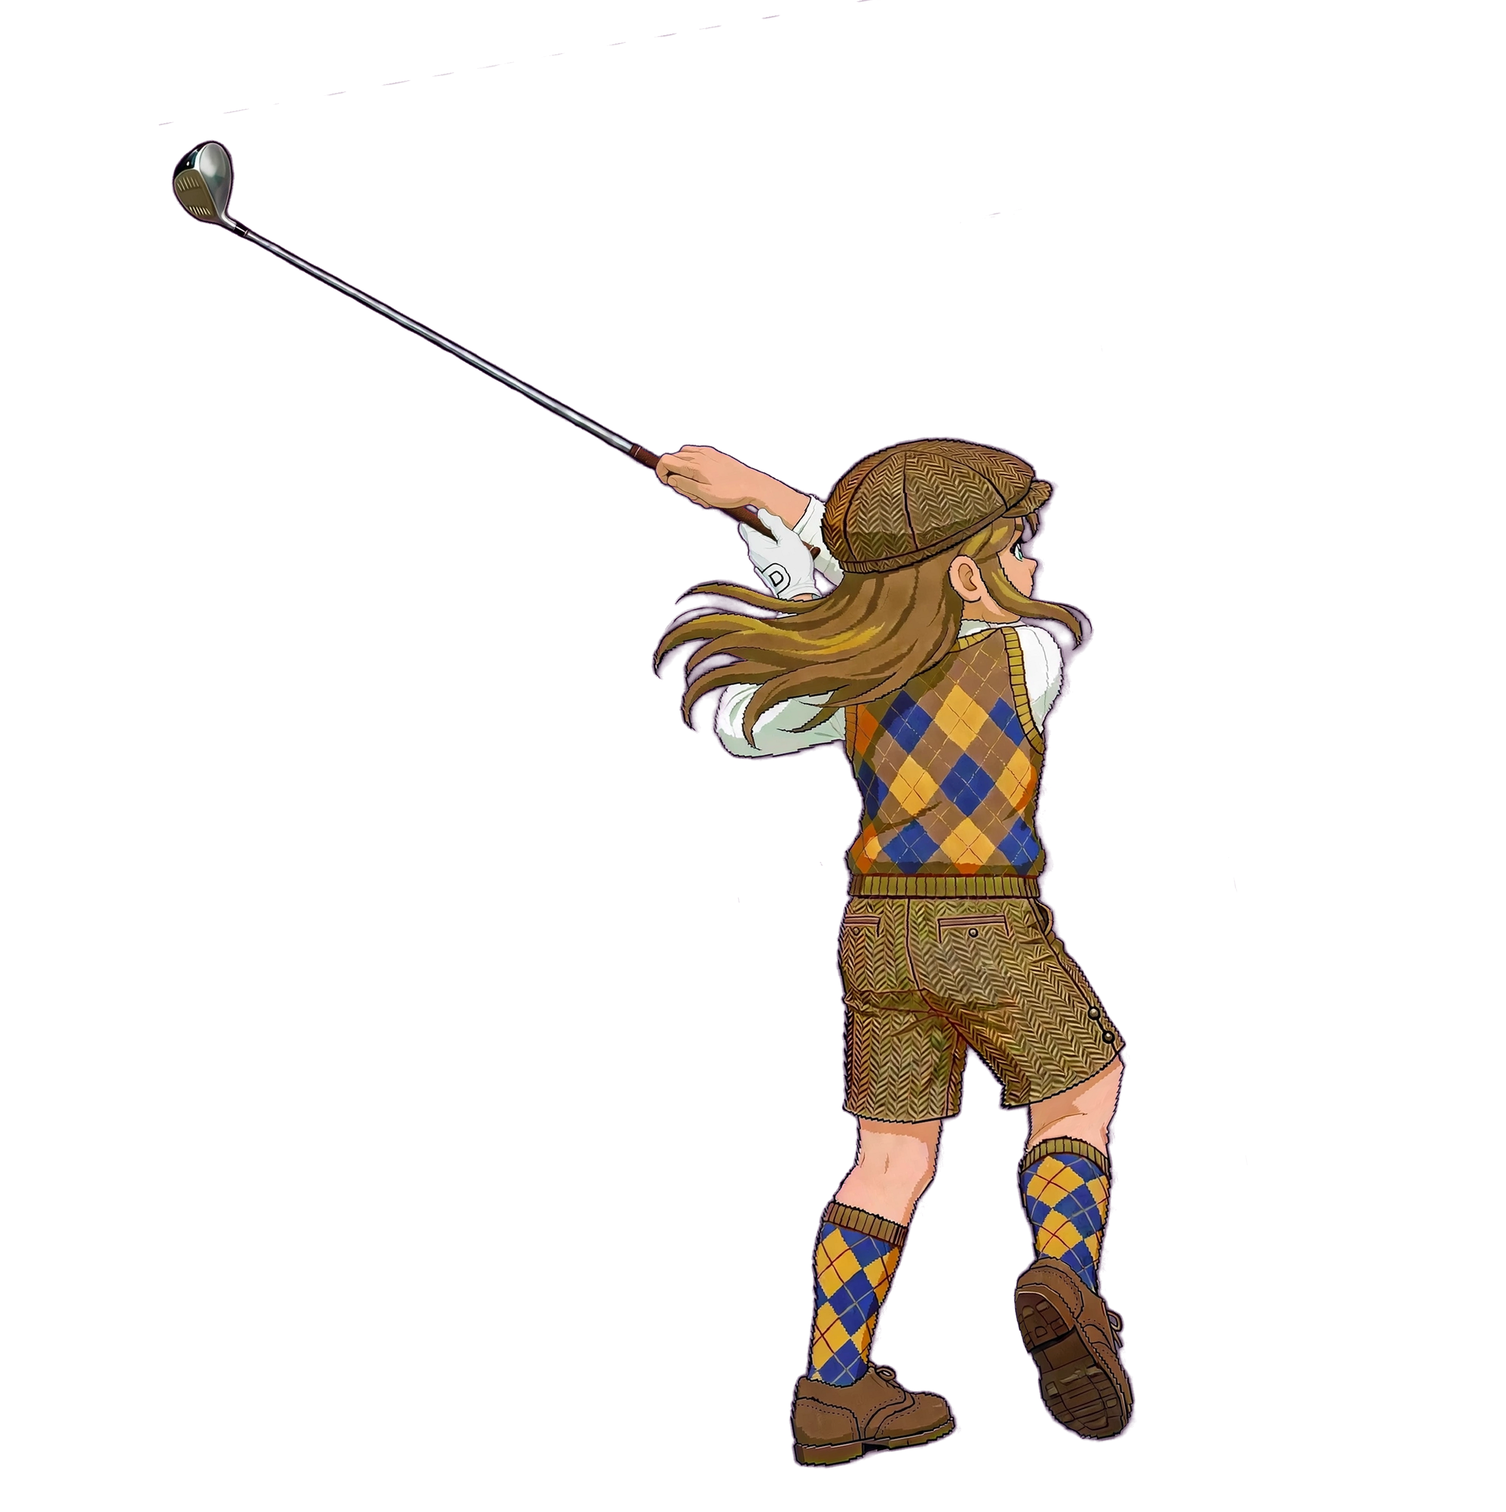
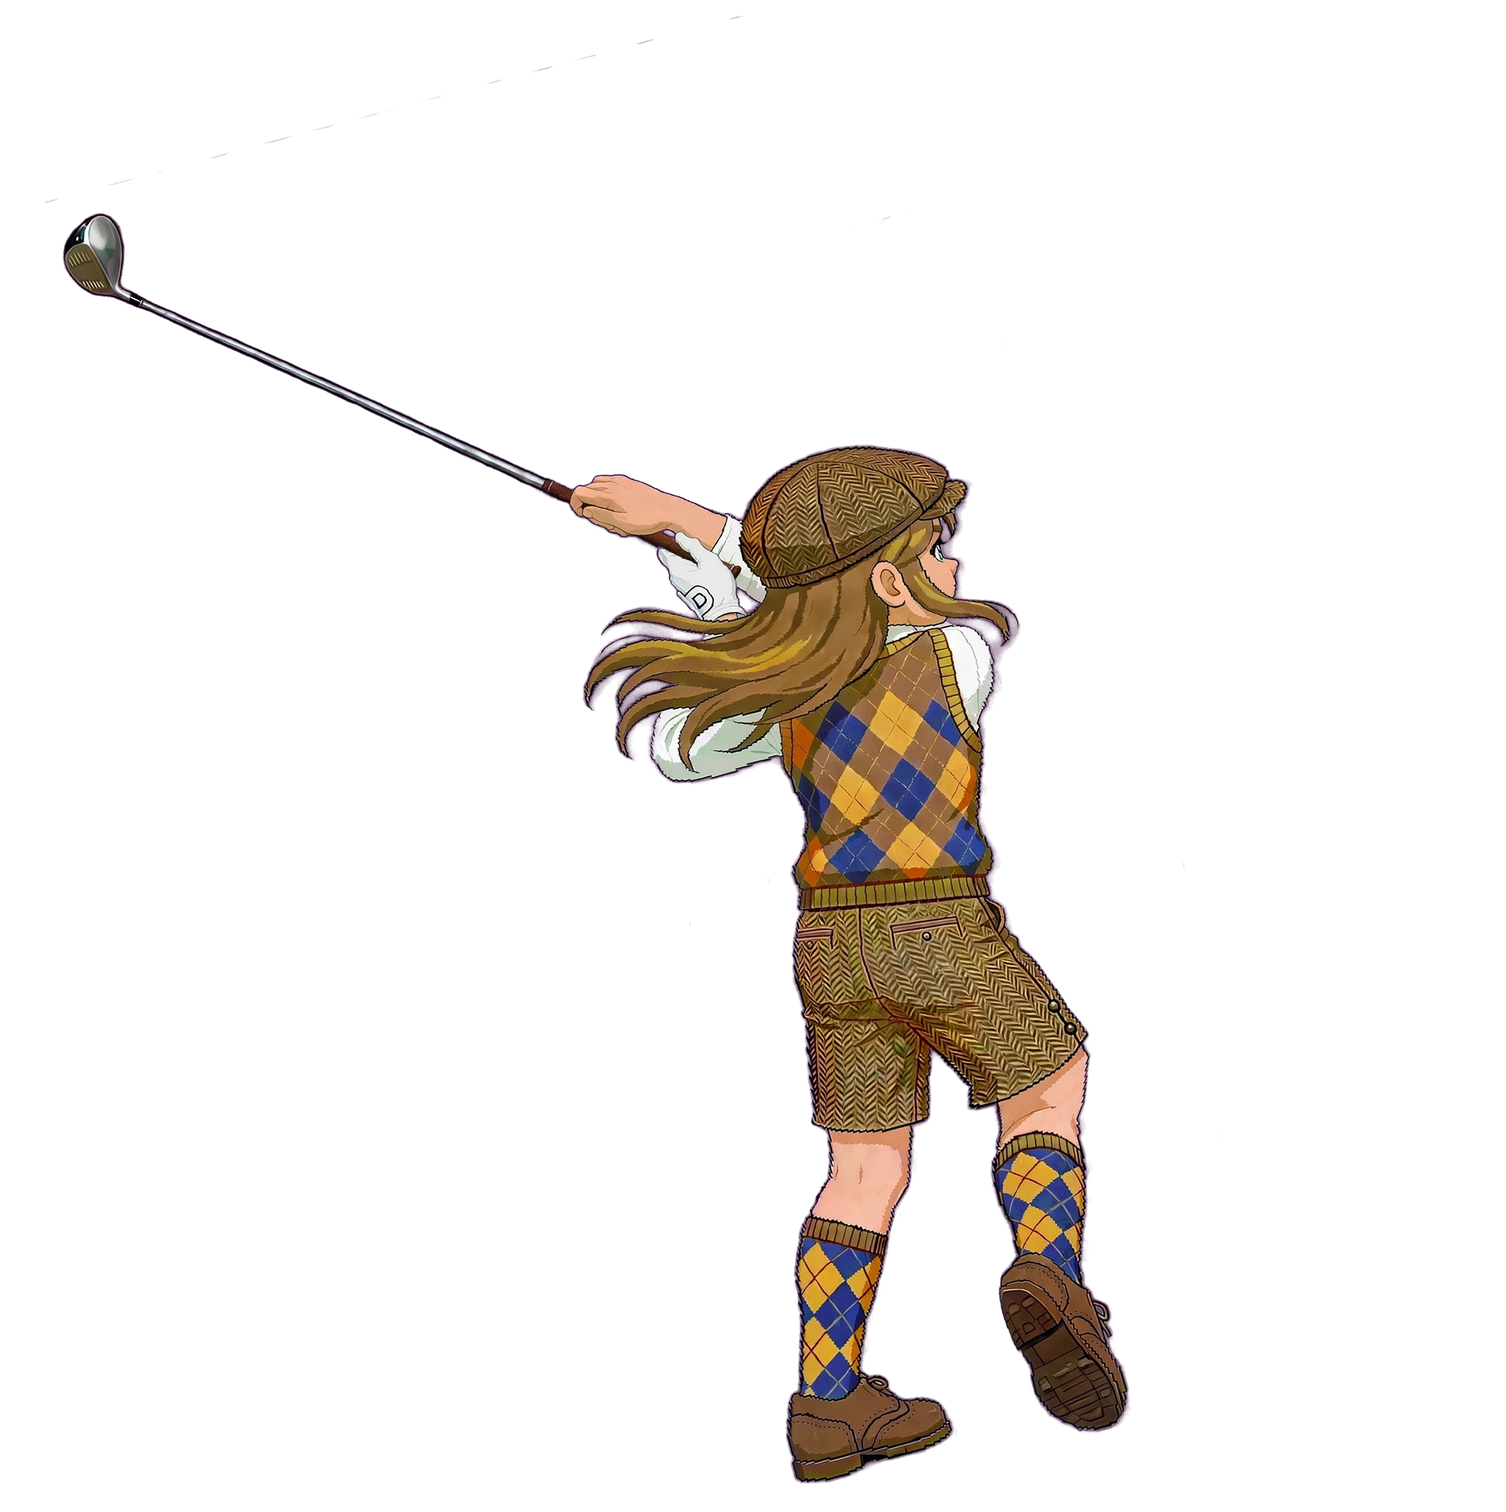
v0.17.0 フォロー15度＋コース10〜15を追加

diff --git a/index.html b/index.html
@@ -186,7 +186,7 @@
 /* ============ 版チェック（ブラウザキャッシュで古いページが残る問題への対策） ============
    サーバー上の version.txt とこのページの版が違えば、新しいURLで開き直して最新版を取りに行く。
    公開のたびに PAGE_VER と version.txt を一緒に上げること。 */
-const PAGE_VER = "0.16.0";
+const PAGE_VER = "0.17.0";
 (function(){
   try {
     fetch("version.txt", { cache: "no-store" }).then(r => r.text()).then(v => {
@@ -226,12 +226,12 @@ const COURSES = [
   { name:"砂浜",         par:4, len:300, ready:true },
   { name:"山の上",       par:5, len:450, ready:true },
   { name:"都会（深夜）", par:4, len:340, ready:true, cupX:-150, cupZ:190 },
-  { name:"機械遺跡",     par:4, len:330 },
-  { name:"ジャングル",   par:4, len:310 },
-  { name:"白嶺の雪山",   par:4, len:370 },
-  { name:"灼砂の砂漠",   par:5, len:460 },
-  { name:"大渓谷",       par:3, len:180 },
-  { name:"霞の竹林",     par:4, len:290 },
+  { name:"機械遺跡",     par:4, len:330, ready:true },
+  { name:"ジャングル",   par:4, len:310, ready:true },
+  { name:"白嶺の雪山",   par:4, len:370, ready:true },
+  { name:"灼砂の砂漠",   par:5, len:460, ready:true },
+  { name:"大渓谷",       par:3, len:180, ready:true },
+  { name:"霞の竹林",     par:4, len:290, ready:true },
   { name:"紅蓮の火山",   par:4, len:390 },
   { name:"湿原",         par:4, len:280 },
   { name:"黄昏の地",     par:5, len:520 }
@@ -443,6 +443,75 @@ function surfNight(x, z){
   if (Math.hypot(x - CUP.x, z - CUP.z) <= GREEN_R) return "green";
   return nightRoad(x, z) ? "asphalt" : "rough";
 }
+/* ---- コース10「機械遺跡」：石床はよく転がる。柱と歯車の障害物 ---- */
+function heightRuins(x, z){
+  const roll = 0.7 * Math.sin(x * 0.04 + 0.3) * Math.sin(z * 0.03 + 1.1) + 0.4 * Math.sin(x * 0.09) * Math.sin(z * 0.06);
+  const f = Math.min(smooth01(10, 24, Math.hypot(x, z)), smooth01(14, 28, Math.hypot(x - CUP.x, z - CUP.z)));
+  return roll * f;
+}
+function surfRuins(x, z){
+  if (Math.hypot(x - CUP.x, z - CUP.z) <= GREEN_R) return "green";
+  if (Math.abs(x) <= 20 && z <= 35 && z >= -(HOLE_LEN + 15)) return "stone";
+  return "rough";
+}
+/* ---- コース11「ジャングル」：木の密度最大、フェアウェイは幅28mと最狭 ---- */
+function heightJungle(x, z){
+  const roll = 1.2 * Math.sin(x * 0.03 + 2.0) * Math.sin(z * 0.022 + 0.6) + 0.6 * Math.sin(x * 0.08) * Math.sin(z * 0.05 + 1.4);
+  const f = Math.min(smooth01(10, 24, Math.hypot(x, z)), smooth01(14, 28, Math.hypot(x - CUP.x, z - CUP.z)));
+  return roll * f;
+}
+function surfJungle(x, z){
+  if (Math.hypot(x - CUP.x, z - CUP.z) <= GREEN_R) return "green";
+  if (Math.abs(x) <= 14 && z <= 35 && z >= -(HOLE_LEN + 15)) return "fairway";
+  return "rough";
+}
+/* ---- コース12「白嶺の雪山」：全面雪。転がらないのでキャリーで止める ---- */
+function heightSnow(x, z){
+  const roll = 2.2 * Math.sin(x * 0.025 + 0.9) * Math.sin(z * 0.018 + 0.2) + 1.0 * Math.sin(x * 0.06) * Math.sin(z * 0.045 + 1.8);
+  const f = Math.min(smooth01(10, 26, Math.hypot(x, z)), smooth01(14, 30, Math.hypot(x - CUP.x, z - CUP.z)));
+  return roll * f;
+}
+function surfSnow(x, z){
+  if (Math.hypot(x - CUP.x, z - CUP.z) <= GREEN_R) return "green";
+  return "snow";
+}
+/* ---- コース13「灼砂の砂漠」：全面砂＋砂丘。オアシスは水ハザード ---- */
+function heightDesert(x, z){
+  const dune = 2.6 * Math.sin(x * 0.021 + 0.4) * Math.sin(z * 0.017 + 1.0) + 1.2 * Math.sin(x * 0.05 + 2.2) * Math.sin(z * 0.04);
+  let f = Math.min(smooth01(10, 26, Math.hypot(x, z)), smooth01(14, 30, Math.hypot(x - CUP.x, z - CUP.z)));
+  f = Math.min(f, smooth01(16, 34, Math.hypot(x - 52, z + 215)));   // オアシス付近は平らに
+  return dune * f;
+}
+function surfDesert(x, z){
+  if (inLake(x, z)) return "water";
+  if (Math.hypot(x - CUP.x, z - CUP.z) <= GREEN_R) return "green";
+  return "sand";
+}
+/* ---- コース14「大渓谷」：狭い谷底、両側は崖。中盤に川（キャリー必須） ---- */
+function heightCanyon(x, z){
+  const cliff = 26 * smooth01(17, 32, Math.abs(x));
+  let roll = 0.7 * Math.sin(z * 0.03) * (1 - smooth01(14, 24, Math.abs(x)));
+  roll *= smooth01(10, 18, Math.abs(z + 100));   // 川の帯は平らに
+  const f = Math.min(smooth01(10, 24, Math.hypot(x, z)), smooth01(14, 28, Math.hypot(x - CUP.x, z - CUP.z)));
+  return cliff + roll * f;
+}
+function surfCanyon(x, z){
+  if (inLake(x, z)) return "water";
+  if (Math.hypot(x - CUP.x, z - CUP.z) <= GREEN_R) return "green";
+  if (Math.abs(x) <= 13 && z <= 35 && z >= -(HOLE_LEN + 15)) return "fairway";
+  return "rough";
+}
+/* ---- コース15「霞の竹林」：竹の密生＋霧で視界が利かない ---- */
+function heightBamboo(x, z){
+  const roll = 1.0 * Math.sin(x * 0.03 + 1.2) * Math.sin(z * 0.024 + 0.5) + 0.5 * Math.sin(x * 0.07) * Math.sin(z * 0.055 + 2.4);
+  const f = Math.min(smooth01(10, 24, Math.hypot(x, z)), smooth01(14, 28, Math.hypot(x - CUP.x, z - CUP.z)));
+  return roll * f;
+}
+function surfBamboo(x, z){
+  if (Math.hypot(x - CUP.x, z - CUP.z) <= GREEN_R) return "green";
+  if (Math.abs(x) <= 16 && z <= 35 && z >= -(HOLE_LEN + 15)) return "fairway";
+  return "rough";
+}
 
 /* ============ コース構築 ============ */
 function buildGround(def){
@@ -463,7 +532,7 @@ function buildGround(def){
   geo.computeVertexNormals();
   const mesh = new THREE.Mesh(geo, new THREE.MeshLambertMaterial({ vertexColors: true, color: 0x9fd08a }));
   courseGroup.add(mesh);
-  new THREE.TextureLoader().load(def.tex + "?v=160", (tex) => {
+  new THREE.TextureLoader().load(def.tex + "?v=170", (tex) => {
     tex.wrapS = tex.wrapT = THREE.RepeatWrapping;
     tex.repeat.set(def.repX, def.repY);
     tex.magFilter = THREE.NearestFilter;
@@ -485,7 +554,7 @@ function buildGreenCup(){
   const flag = new THREE.Mesh(new THREE.PlaneGeometry(0.68, 0.334),
     new THREE.MeshBasicMaterial({ color:0xe53935, side:THREE.DoubleSide, transparent:true }));
   flag.position.set(CUP.x + 0.34, gy + 1.23, CUP.z); courseGroup.add(flag);
-  new THREE.TextureLoader().load("flag.png?v=160", (tex) => {
+  new THREE.TextureLoader().load("flag.png?v=170", (tex) => {
     flag.material.map = tex; flag.material.color.set(0xffffff);
     flag.material.needsUpdate = true;
   }, undefined, () => { /* 読み込み失敗：赤旗を維持 */ });
@@ -729,6 +798,113 @@ function decorateNight(){
   car("x", -196, -60, -1, 10, "taxi");
   car("x", -184, -140, 1, 7.5, "truck");
 }
+/* ---- 装飾：コース10「機械遺跡」 ---- */
+function decorateRuins(){
+  const stoneM = new THREE.MeshLambertMaterial({ color:0x9a958c });
+  const darkM = new THREE.MeshLambertMaterial({ color:0x5d594f });
+  function pillar(x, z, hgt, broken){
+    const p = new THREE.Mesh(new THREE.CylinderGeometry(1.1, 1.3, hgt, 8), stoneM);
+    p.position.set(x, groundH(x, z) + hgt / 2, z);
+    courseGroup.add(p); regOccluder(p);
+    if (!broken){
+      const cap = new THREE.Mesh(new THREE.BoxGeometry(3.4, 0.7, 3.4), darkM);
+      cap.position.set(x, groundH(x, z) + hgt + 0.35, z);
+      courseGroup.add(cap); regOccluder(cap);
+    }
+    colliders.push({ x, z, r:1.5, gr:1.4, h:hgt });
+  }
+  function gear(x, z, r){
+    const g = new THREE.Mesh(new THREE.CylinderGeometry(r, r, 0.9, 12), darkM);
+    g.rotation.x = Math.PI / 2; g.rotation.z = 0.4;
+    g.position.set(x, groundH(x, z) + r * 0.75, z);
+    courseGroup.add(g); regOccluder(g);
+    colliders.push({ x, z, r:r * 0.95, gr:r * 0.95, h:r * 1.5 });
+  }
+  const R = rng(1010);
+  for (let z = -30; z >= -(HOLE_LEN - 30); z -= 42 + R() * 16){
+    pillar(-(24 + R() * 6), z, 6 + R() * 5, R() < 0.35);
+    pillar(24 + R() * 6, z - 14, 6 + R() * 5, R() < 0.35);
+    if (R() < 0.55) gear((R() < 0.5 ? -1 : 1) * (27 + R() * 10), z - 24, 2.2 + R() * 1.4);
+    if (R() < 0.4) rock((R() < 0.5 ? -1 : 1) * (12 + R() * 22), z - 8, 0.8 + R() * 0.7);   // 瓦礫
+  }
+  pillar(-8, CUP.z + 16, 9, false); pillar(8, CUP.z + 16, 9, false);       // グリーン手前の門柱
+}
+/* ---- 装飾：コース11「ジャングル」 ---- */
+function decorateJungle(){
+  const R = rng(1111);
+  for (let z = 2; z >= -(HOLE_LEN + 18); z -= 5 + R() * 5){
+    for (const side of [-1, 1]){
+      if (R() < 0.88) tree(side * (19 + R() * 42), z - R() * 4, 1.1 + R() * 0.9);         // 密林（大きめ）
+      if (R() < 0.3) tree(side * (15.5 + R() * 3), z - 2, 0.9 + R() * 0.6);               // フェアウェイ際まで迫る
+    }
+    if (R() < 0.16) tree((R() < 0.5 ? -1 : 1) * (4 + R() * 8), z - 3, 0.85 + R() * 0.5);  // ときどきフェアウェイ内にも
+  }
+  for (let i = 0; i < 8; i++) tree(-46 + R() * 92, CUP.z - 15 - R() * 10, 1.1 + R() * 0.8);
+}
+/* 竹の株（細い幹の束＋笹の天蓋）。当たり判定は株の円で1つ */
+function bamboo(x, z, s){
+  const g = new THREE.Group();
+  const stemM = new THREE.MeshLambertMaterial({ color:0x5d8a3c });
+  const leafM = new THREE.MeshLambertMaterial({ color:0x3f7031 });
+  const R = rng(Math.floor(x * 13 + z * 7) + 5000);
+  for (let i = 0; i < 4; i++){
+    const sx = (R() - 0.5) * 1.1, sz = (R() - 0.5) * 1.1, sh = (7 + R() * 2.5) * s;
+    const st = new THREE.Mesh(new THREE.CylinderGeometry(0.09 * s, 0.13 * s, sh, 5), stemM);
+    st.position.set(sx, sh / 2, sz); g.add(st);
+    const lf = new THREE.Mesh(new THREE.ConeGeometry(1.15 * s, 2.4 * s, 6), leafM);
+    lf.position.set(sx, sh + 0.8 * s, sz); g.add(lf);
+  }
+  g.position.set(x, groundH(x, z), z);
+  courseGroup.add(g); regOccluder(g);
+  colliders.push({ x, z, r:1.0 * s, gr:0.8 * s, h:9 * s });
+}
+/* ---- 装飾：コース13「灼砂の砂漠」 ---- */
+function decorateDesert(){
+  flatPlane(46, 60, new THREE.MeshPhongMaterial({ color:0x2f8fd0, transparent:true, opacity:0.85, shininess:120 }), 52, 0.05, -215);   // オアシス
+  const R = rng(1313);
+  for (let i = 0; i < 5; i++) tree(34 + R() * 8, -196 - R() * 38, 0.9 + R() * 0.4);        // オアシスの木陰
+  for (let z = -12; z >= -(HOLE_LEN + 10); z -= 18 + R() * 16){
+    for (const side of [-1, 1]){
+      if (R() < 0.5) rock(side * (30 + R() * 40), z, 0.8 + R() * 1.1);
+      else if (R() < 0.22) tree(side * (34 + R() * 30), z - 6, 0.7 + R() * 0.4);
+    }
+  }
+}
+/* ---- 装飾：コース14「大渓谷」 ---- */
+function decorateCanyon(){
+  flatPlane(30, 13, new THREE.MeshPhongMaterial({ color:0x2f8fd0, transparent:true, opacity:0.85, shininess:120 }), 0, 0.06, -100);   // 川
+  const R = rng(1414);
+  for (let z = -8; z >= -(HOLE_LEN + 8); z -= 13 + R() * 10){
+    for (const side of [-1, 1]){
+      if (R() < 0.6) rock(side * (19 + R() * 8), z, 0.9 + R() * 1.0);          // 崖際の岩
+      if (R() < 0.4) tree(side * (44 + R() * 26), z - 5, 0.9 + R() * 0.6);     // 崖の上の木
+    }
+  }
+  rock(-9, -88, 1.1); rock(10, -114, 1.0);                                    // 川の前後の岩
+}
+/* ---- 装飾：コース15「霞の竹林」 ---- */
+function decorateBamboo(){
+  const R = rng(1515);
+  for (let z = 4; z >= -(HOLE_LEN + 16); z -= 6 + R() * 5){
+    for (const side of [-1, 1]){
+      if (R() < 0.85) bamboo(side * (21 + R() * 40), z - R() * 4, 0.9 + R() * 0.35);
+      if (R() < 0.3) bamboo(side * (17.5 + R() * 3), z - 3, 0.8 + R() * 0.3);
+    }
+    if (R() < 0.13) bamboo((R() < 0.5 ? -1 : 1) * (5 + R() * 9), z - 4, 0.85 + R() * 0.3);   // ときどき内側にも
+  }
+  for (let i = 0; i < 7; i++) bamboo(-44 + R() * 88, CUP.z - 14 - R() * 10, 0.95 + R() * 0.3);
+}
+/* ---- 装飾：コース12「白嶺の雪山」 ---- */
+function decorateSnow(){
+  const R = rng(1212);
+  for (let z = -4; z >= -(HOLE_LEN + 14); z -= 12 + R() * 9){
+    for (const side of [-1, 1]){
+      if (R() < 0.62) tree(side * (30 + R() * 34), z, 0.9 + R() * 0.7);
+      else if (R() < 0.55) rock(side * (28 + R() * 30), z - 5, 0.8 + R() * 0.9);
+    }
+  }
+  for (let i = 0; i < 6; i++) tree(-52 + R() * 104, CUP.z - 15 - R() * 10, 1 + R() * 0.6);
+}
 /* ---- コース構築テーブル ---- */
 const COURSE_BUILD = [
   { tex:"tex/gtex_grass.png", repX:46, repY:82, sky:0x9fd3ee, sun:0xfff2d8, sunI:0.75,
@@ -767,7 +943,31 @@ const COURSE_BUILD = [
   { tex:"tex/gtex_stonefloor_light.png", repX:30, repY:60, sky:0x141c33, sun:0x8fb4ff, sunI:0.35, hemi:0.5,
     h:heightFlat, surf:surfNight,
     tintAt:(x, z) => nightRoad(x, z) ? [0.62, 0.66, 0.8] : [0.34, 0.38, 0.52],
-    decorate:decorateNight }
+    decorate:decorateNight },
+  { tex:"tex/gtex_stonefloor_dark.png", repX:30, repY:55, sky:0xb8c4cc, sun:0xe8ecf0, sunI:0.6,
+    h:heightRuins, surf:surfRuins,
+    tintAt:(x, z) => (Math.abs(x) <= 20 && z <= 35 && z >= -(HOLE_LEN + 15)) ? [1, 1, 1] : [0.72, 0.7, 0.66],
+    decorate:decorateRuins },
+  { tex:"tex/gtex_forest.png", repX:46, repY:79, sky:0x8fd0c8, sun:0xfff2d8, sunI:0.65,
+    h:heightJungle, surf:surfJungle,
+    tintAt:(x, z) => (Math.abs(x) <= 14 && z <= 35 && z >= -(HOLE_LEN + 15)) ? [1, 1, 1] : [0.58, 0.64, 0.55],
+    decorate:decorateJungle },
+  { tex:"tex/gtex_snow.png", repX:46, repY:85, sky:0xd6e6f2, sun:0xffffff, sunI:0.85,
+    h:heightSnow, surf:surfSnow,
+    tintAt:(x, z) => [1, 1, 1],
+    decorate:decorateSnow },
+  { tex:"tex/gtex_sand.png", repX:46, repY:100, sky:0xa8d4ea, sun:0xfff6da, sunI:0.95,
+    h:heightDesert, surf:surfDesert, waters:[{ x0:29, x1:75, z0:-245, z1:-185 }],
+    tintAt:(x, z) => [1, 1, 1],
+    decorate:decorateDesert },
+  { tex:"tex/gtex_rocky.png", repX:46, repY:66, sky:0x9fd3ee, sun:0xfff2d8, sunI:0.8,
+    h:heightCanyon, surf:surfCanyon, waters:[{ x0:-16, x1:16, z0:-107, z1:-93 }],
+    tintAt:(x, z) => (Math.abs(x) <= 13 && z <= 35 && z >= -(HOLE_LEN + 15)) ? [0.92, 0.95, 0.82] : [1, 1, 1],
+    decorate:decorateCanyon },
+  { tex:"tex/gtex_forest.png", repX:46, repY:74, sky:0xcfe0da, sun:0xf2f5e8, sunI:0.55, fogNear:40, fogFar:280,
+    h:heightBamboo, surf:surfBamboo,
+    tintAt:(x, z) => (Math.abs(x) <= 16 && z <= 35 && z >= -(HOLE_LEN + 15)) ? [1.05, 1.05, 0.95] : [0.72, 0.78, 0.68],
+    decorate:decorateBamboo }
 ];
 function buildCourse(i){
   const def = COURSE_BUILD[i];
@@ -783,6 +983,7 @@ function buildCourse(i){
   curH = def.h; curSurfFn = def.surf;
   curWaterFn = def.waterFn || ((x, z) => (def.waters || []).some(w => x > w.x0 && x < w.x1 && z < w.z1 && z > w.z0));
   scene.background.set(def.sky); scene.fog.color.set(def.sky);
+  scene.fog.near = def.fogNear || 180; scene.fog.far = def.fogFar || 700;
   sun.color.set(def.sun); sun.intensity = def.sunI;
   hemi.intensity = def.hemi != null ? def.hemi : 0.95;
   movers = [];
@@ -855,35 +1056,35 @@ function setCharaTex(tex, h, cy){
 /* フォロー／フィニッシュ（背面絵）はキャンバスに占める人物の割合が他と違う（フォローは
    クラブを描き切るためキャンバスが縦長）ので、人物の見かけの大きさがアドレスと揃うよう
    表示高さと中心位置を個別に較正する（2026-11-22 v0.7.1）。 */
-const FOLLOW_H = 1.721, FOLLOW_Y = 0.868;   // v0.11.8：10°回転でキャンバス 2836x2847 化、人物縦スパン 2020px で再較正
+const FOLLOW_H = 1.712, FOLLOW_Y = 0.865;   // v0.17：+5°追加回転（計15°）：縦スパン 1941→1951px で再較正
 const FINISH_H = 1.340, FINISH_Y = 0.689;   // 人物割合 1990/2184 → 同上
 // ゴルファー絵（golfer.png：英国紳士風 nono）が読めたら差し替える。失敗時は上の簡易スプライトのまま（フォールバック）。
-new THREE.TextureLoader().load("golfer.png?v=160", (tex) => {
+new THREE.TextureLoader().load("golfer.png?v=170", (tex) => {
   tex.magFilter = THREE.NearestFilter;   // ドット絵をくっきり表示
   texStand = tex;
   if (state === "aim" && !texAddress) setCharaTex(texStand);   // アドレス絵が既にあればそちらを優先（打つ前の構え）
 }, undefined, () => { /* 読み込み失敗：簡易スプライトを維持 */ });
 // スイング絵（7段階：アドレス／テークバック／トップ／ダウンスイング／インパクト／フォロースルー／フィニッシュ）
-new THREE.TextureLoader().load("swing_address.png?v=160", (tex) => {
+new THREE.TextureLoader().load("swing_address.png?v=170", (tex) => {
   tex.magFilter = THREE.NearestFilter; texAddress = tex;
   if (state === "aim") setCharaTex(texAddress);   // 打つ前はアドレス絵で打つ方向を向く
 }, undefined, () => { /* 読み込み失敗：アドレスは立ち絵のまま */ });
-new THREE.TextureLoader().load("swing_takeback.png?v=160", (tex) => {
+new THREE.TextureLoader().load("swing_takeback.png?v=170", (tex) => {
   tex.magFilter = THREE.NearestFilter; texTakeback = tex;
 }, undefined, () => { /* 読み込み失敗：テークバックは立ち絵のまま */ });
-new THREE.TextureLoader().load("swing_back.png?v=160", (tex) => {
+new THREE.TextureLoader().load("swing_back.png?v=170", (tex) => {
   tex.magFilter = THREE.NearestFilter; texBack = tex;
 }, undefined, () => { /* 読み込み失敗：トップは立ち絵のまま */ });
-new THREE.TextureLoader().load("swing_down.png?v=160", (tex) => {
+new THREE.TextureLoader().load("swing_down.png?v=170", (tex) => {
   tex.magFilter = THREE.NearestFilter; texDown = tex;
 }, undefined, () => { /* 読み込み失敗：ダウンスイングは立ち絵のまま */ });
-new THREE.TextureLoader().load("swing_impact.png?v=160", (tex) => {
+new THREE.TextureLoader().load("swing_impact.png?v=170", (tex) => {
   tex.magFilter = THREE.NearestFilter; texImpact = tex;
 }, undefined, () => { /* 読み込み失敗：インパクトは立ち絵のまま */ });
-new THREE.TextureLoader().load("swing_follow.png?v=160", (tex) => {
+new THREE.TextureLoader().load("swing_follow.png?v=170", (tex) => {
   tex.magFilter = THREE.NearestFilter; texFollow = tex;
 }, undefined, () => { /* 読み込み失敗：フォロースルーは立ち絵のまま */ });
-new THREE.TextureLoader().load("swing_finish.png?v=160", (tex) => {
+new THREE.TextureLoader().load("swing_finish.png?v=170", (tex) => {
   tex.magFilter = THREE.NearestFilter; texFinish = tex;
 }, undefined, () => { /* 読み込み失敗：フィニッシュは立ち絵のまま */ });
 const charShadow = blobShadow(0.6, 0.42);
@@ -925,9 +1126,12 @@ const SURF = {
   fairway: { bounce:1.0,  roll:1.0,  lie:1.0 },    // 標準
   rough:   { bounce:0.5,  roll:0.45, lie:0.9 },    // 跳ねが死に、草で止まる。次のショットも少し飛ばない
   sand:    { bounce:0.15, roll:0.10, lie:0.55 },   // ほぼ跳ねず、めり込んで止まる。次のショットは大きく飛距離が落ちる
-  asphalt: { bounce:1.3,  roll:1.4,  lie:1.0 }     // 都会コースの道路：よく跳ね、よく転がる
+  asphalt: { bounce:1.3,  roll:1.4,  lie:1.0 },    // 都会コースの道路：よく跳ね、よく転がる
+  stone:   { bounce:1.4,  roll:1.5,  lie:1.0 },    // 遺跡の石床：硬くて一番転がる
+  snow:    { bounce:0.3,  roll:0.05, lie:0.85 },   // 雪：跳ねず転がらず、キャリーで止める
+  marsh:   { bounce:0.1,  roll:0.05, lie:0.6 }     // 湿地：めり込んで止まる。次のショットも飛ばない
 };
-const LIE_LABEL = { fairway:"ライ：フェアウェイ", rough:"ライ：ラフ（飛距離×0.9）", sand:"ライ：砂（飛距離×0.55）", green:"ライ：グリーン", water:"ライ：―", asphalt:"ライ：アスファルト" };
+const LIE_LABEL = { fairway:"ライ：フェアウェイ", rough:"ライ：ラフ（飛距離×0.9）", sand:"ライ：砂（飛距離×0.55）", green:"ライ：グリーン", water:"ライ：―", asphalt:"ライ：アスファルト", stone:"ライ：石床（よく転がる）", snow:"ライ：雪（飛距離×0.85）", marsh:"ライ：湿地（飛距離×0.6）" };
 
 /* ============ 設定（localStorage に保存） ============ */
 const CAM_PATTERNS = [
